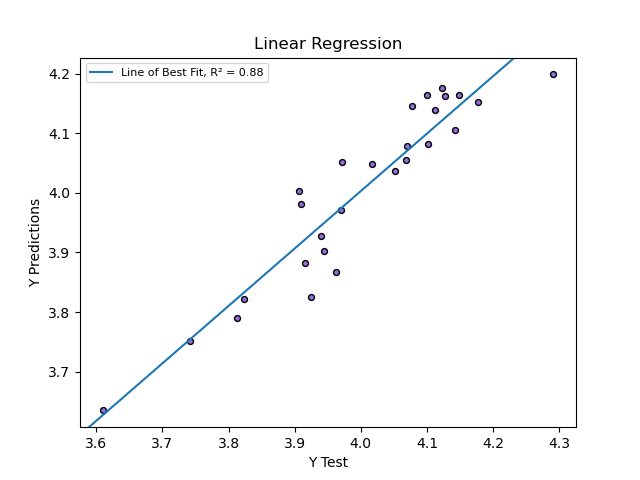
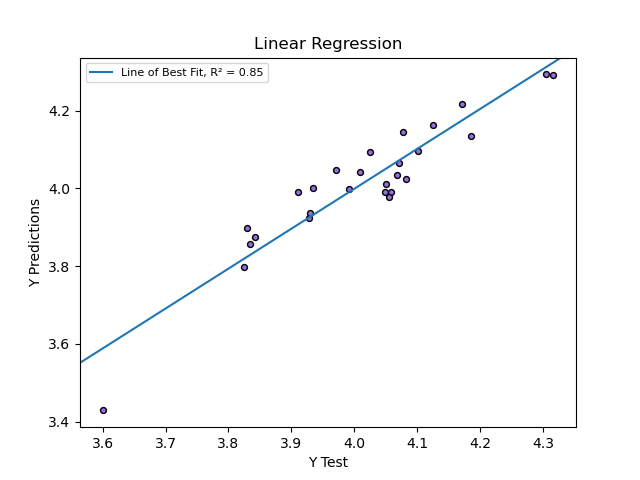
So many changes!

diff --git a/code/model.py b/code/model.py
@@ -9,15 +9,26 @@ from text_format import TextFormat
 from abc import ABCMeta, abstractmethod
 from sklearn.feature_selection import RFE
 from sklearn.metrics import mean_squared_error, r2_score
-from sklearn.model_selection import KFold, cross_val_score, GridSearchCV, RepeatedKFold
+from sklearn.model_selection import KFold, cross_val_score, GridSearchCV
 from sklearn.linear_model import LinearRegression, Lasso, LassoCV, ElasticNet, ElasticNetCV
 
 class RegressionModel():
+    # Initialize a class variable for the random state hyper parameter.
+    seed = random.randrange(10000000)
+
     def __init__(self, x_train, y_train, x_test, y_test):
         self.x_train = x_train
-        self.y_train = y_train
+        self.y_train = self.flatten_vector(y_train)
         self.x_test = x_test
-        self.y_test = y_test
+        self.y_test = self.flatten_vector(y_test)
+
+    @abstractmethod 
+    def cross_validation(self):
+        pass
+
+    @abstractmethod
+    def evaluation(self):
+        pass
 
     def flatten_vector(self, data):
         # Ensure the data is of numpy array type.
@@ -25,16 +36,12 @@ class RegressionModel():
 
         # Flatten the vector
         data = data.flatten()
-
+        
         return data
 
     def get_slope_intercept(self, predictions):
         # Degree of the fitting polynomial.
         deg = 1
-
-        # Converting following matrix into 1D numpy array.
-        self.y_test = self.flatten_vector(self.y_test)
-        predictions = self.flatten_vector(predictions)
 
         # Parameters from the fit of the polynomial.
         p = np.polyfit(self.y_test, predictions, deg)
@@ -57,6 +64,36 @@ class RegressionModel():
         
         # Display the model prediction performance. 
         self.display(predictions, r2, model_name)
+
+    def get_error_percentage(self, data, predictions):
+        data = list(data)
+        predictions = list(predictions)
+        error = 0
+
+        for i in range(len(data)):
+            error += (abs(predictions[i] - data[i]) / data[i])
+
+        error_percentage = ((error / len(data)) * 100).round(2)
+        return error_percentage
+        
+    def make_comparisons(self, predictions):
+        compare = pd.DataFrame({'Test Data': self.y_test, 'Prediction': predictions})
+        print("\nTest Data vs Predicted Values:")
+        print(tabulate(compare.head(5), headers="keys", showindex=False, tablefmt="psql"))
+
+    def make_accurate_comparisons(self, predictions):
+        # Transform the data back to its original state.
+        actual_y_test = np.exp(self.y_test)
+        actual_predictions = np.exp(predictions)
+
+        # Calculate the difference between the Test Data and the Predictions.
+        diff = abs(actual_y_test - actual_predictions)
+
+        # Display the results in table form.
+        actual_compare = pd.DataFrame({'Test Data': actual_y_test, 'Prediction': actual_predictions, 'Difference': diff})
+        actual_compare = actual_compare.astype(float).round(2)
+        print("\nTest Data vs Predicted Values (reverted):")
+        print(tabulate(actual_compare.head(5), headers="keys", showindex=False, tablefmt="psql"))
 
     def display(self, predictions, r2, model_name):
         # Receive the parameters from the fit of the polynomial.
@@ -82,57 +119,33 @@ class RegressionModel():
         plt.savefig(f'{model_name.lower()}plot.png')
         plt.show()
 
-    def make_comparisons(self, predictions):
-        compare = pd.DataFrame({'Prediction': predictions, 'Test Data': self.y_test})
-        print("\nComparisons between the raw predicted values & corresponding test data:")
-        print(tabulate(compare.head(10), headers="keys", showindex=False, tablefmt="psql"))
-
-    def make_accurate_comparisons(self, predictions):
-        # Transform the data back to its original state.
-        actual_y_test = np.exp(self.y_test)
-        actual_predictions = np.exp(predictions)
-
-        # Calculate the difference between the Test Data and the Predictions.
-        diff = abs(actual_y_test - actual_predictions)
-
-        # Display the results in table form.
-        actual_compare = pd.DataFrame({'Test Data': actual_y_test, 'Prediction': actual_predictions, 'Difference': diff})
-        actual_compare = actual_compare.astype(float).round(2)
-        print("\nComparisons of the actual values (before transformations):")
-        print(tabulate(actual_compare.head(10), headers="keys", showindex=False, tablefmt="psql"))
-
-    @abstractmethod 
-    def cross_validation(self):
-        pass
-
-    @abstractmethod
-    def evaluation(self):
-        pass
-
 class LinearRegressionModel(RegressionModel):
     def __init__(self, x_train, y_train, x_test, y_test):
         super().__init__(x_train, y_train, x_test, y_test)
         # Create the Linear Regression Model.
         self.model = self.cross_validation()
-        #self.model = LinearRegression().fit(self.x_train, self.y_train)
 
-        # Receive the predictions of x_test from the model.
-        self.predictions = super().flatten_vector(self.model.predict(x_test))
+        # Receive the predictions from the model.
+        self.test_predictions = self.model.predict(self.x_test)
+        self.train_predictions = self.model.predict(self.x_train)
 
         # Declare the r2 score and slope-intercept variables.
-        self.r2 = r2_score(self.y_test, self.predictions)
-        self.p = super().get_slope_intercept(self.predictions)[0]
+        self.r2 = r2_score(self.y_test, self.test_predictions)
+        self.p = super().get_slope_intercept(self.test_predictions)[0]
+
+        self.test_error = super().get_error_percentage(self.y_test, self.test_predictions)
+        self.train_error = super().get_error_percentage(self.y_train, self.train_predictions)
 
     def evaluation(self):
         # Receive the performance results of the Linear Regression Model.
-        super().get_performance_results('Linear', self.predictions, self.r2)
+        super().get_performance_results('Linear', self.test_predictions, self.r2)
         # Display comparisons between the predicted y_test values and the actual y_test values.
-        super().make_comparisons(self.predictions)
-        super().make_accurate_comparisons(self.predictions)
+        super().make_comparisons(self.test_predictions)
+        super().make_accurate_comparisons(self.test_predictions)
 
     def cross_validation(self):
         # Creating a KFold object with 5 splits.
-        folds = KFold(n_splits = 5, shuffle = True)
+        folds = KFold(n_splits = 5, shuffle = True, random_state=RegressionModel.seed)
 
         # Specify range of hyperparameters.
         hyper_params = [{'n_features_to_select': list(range(2, 40))}]
@@ -148,16 +161,14 @@ class LinearRegressionModel(RegressionModel):
         # Fit the model
         linear_cv.fit(self.x_train, self.y_train)
 
+        # Return the best Linear Regression Model.
         return linear_cv
 
 class LassoRegressionModel(RegressionModel):
     def __init__(self, x_train, y_train, x_test, y_test):
         super().__init__(x_train, y_train, x_test, y_test)
-        # Declare and set the best alpha for the Lasso Regression Model.
-        self.alpha = self.cross_validation()
-
         # Create the Lasso Regression Model.
-        self.model = Lasso(alpha = self.alpha).fit(self.x_train, self.y_train)
+        self.model = self.cross_validation()
 
         # Receive the predictions, r2 score, and slope-intercept from the model.
         self.predictions = self.model.predict(self.x_test)
@@ -172,22 +183,20 @@ class LassoRegressionModel(RegressionModel):
         super().make_accurate_comparisons(self.predictions)
 
     def cross_validation(self):
-        lasso_cv = LassoCV(cv=5, max_iter=10000, random_state=62)
-        # Fit model
-        lasso_cv.fit(self.x_train, super().flatten_vector(self.y_train)) 
+        # Define the model.
+        lasso_cv = LassoCV(cv=5, max_iter=10000, random_state=RegressionModel.seed)
 
-        # Return the Best Alpha score.
-        return lasso_cv.alpha_
+        # Fit the model.
+        lasso_cv.fit(self.x_train, self.y_train)
+
+        # Return the best Lasso Regresison Model.
+        return lasso_cv
 
 class ElasticRegressionModel(RegressionModel):
     def __init__(self, x_train, y_train, x_test, y_test):
         super().__init__(x_train, y_train, x_test, y_test)
-        # Initialize the chosen configurations from cross validation.
-        self.alpha = self.cross_validation()[0]
-        self.ratio = self.cross_validation()[1]
-
         # Create the Elastic Net Regression Model.
-        self.model = ElasticNet(alpha=self.alpha, l1_ratio=self.ratio).fit(self.x_train, self.y_train)
+        self.model = self.cross_validation()
 
         # Receive the predictions, r2 score, and slope-intercept from the model.
         self.predictions = self.model.predict(self.x_test)
@@ -196,31 +205,17 @@ class ElasticRegressionModel(RegressionModel):
 
     def evaluation(self):
         # Receive the performance results of the Lasso Regression Model.
-        super().get_performance_results('Elastic Net', self.predictions, self.r2)
+        super().get_performance_results('Elastic', self.predictions, self.r2)
         # Display comparisons between the predicted y_test values and the actual y_test values.
         super().make_comparisons(self.predictions)
         super().make_accurate_comparisons(self.predictions)
 
     def cross_validation(self):
-        # Initialize a random seed for the random state hyper parameter.
-        seed = random.randrange(100000)
-        # Define model evaluation method.
-        #cv = RepeatedKFold(n_splits=5, n_repeats=10000 ,random_state=62)
-
         # Define model.
-        ratios = np.arange(0, 1, 0.01)
-        alphas = [.05, .15, .5, .7, .9, .95, .99, 1]
-        #elastic_cv = ElasticNetCV(l1_ratio=ratios, alphas=alphas, cv=10, n_jobs=8)
-        elastic_cv = ElasticNetCV(cv=10)
+        elastic_cv = ElasticNetCV(cv=5, max_iter=10000, random_state=RegressionModel.seed)
 
-        # Fit model.
-        elastic_cv.fit(self.x_train, super().flatten_vector(self.y_train))
+        # Fit the model.
+        elastic_cv.fit(self.x_train, self.y_train)
 
-        # Return the chosen configurations.
-        return elastic_cv.alpha_, elastic_cv.l1_ratio
-
-
-
-
-
-
+        # Return the best Elastic Model.
+        return elastic_cv

diff --git a/code/main.py b/code/main.py
@@ -14,22 +14,29 @@ from sklearn.metrics import mean_squared_error, r2_score
 from sklearn.feature_selection import VarianceThreshold
 import random
 
-def model_diff_plot(self, linear, lasso, y_test, p1, p2):
-    plt.scatter(x=y_test, y=linear.predictions, c='navy', marker='o', edgecolors='k', s=18, alpha=0.7)
-    plt.scatter(x=y_test, y=lasso.predictions, c='mediumvioletred', marker='o', edgecolors='k', s=18, alpha=0.7)
-    xlim = plt.xlim()
-    ylim = plt.ylim()
+def display_corr(df):
+    # Plot a "pretty" version of the correlation matrix 
+    # Based on: https://seaborn.pydata.org/examples/many_pairwise_correlations.html
+    # Given that the correlation table is symmetrical, we remove one side 
 
-    # Line of best fit
-    plt.plot(np.array(xlim), p1[1] + p1[0] * np.array(xlim), c='navy', alpha=0.7, linewidth=1.5)
-    # Line of best fit
-    plt.plot(np.array(xlim), p2[1] + p2[0] * np.array(xlim), c='mediumvioletred', alpha=0.7, linewidth=1.5)
+    # Declare correlation matrix
+    corr_matrix = df.corr()
 
+    # Generate a mask for the upper triangle
+    mask = np.zeros_like(corr_matrix, dtype=np.bool)
+    mask[np.triu_indices_from(mask)] = True
 
-    classes = ['Linear Model Predictions', 'Lasso Model Predictions']
-    plt.legend(labels=classes, fontsize=8)
-    plt.xlim(xlim)
-    plt.ylim(ylim)
+    # Set up the matplotlib figure
+    f, ax = plt.subplots(figsize=(10, 8))
+
+    # Generate a custom diverging colormap
+    cmap = sns.diverging_palette(220, 10, as_cmap=True)
+
+    # Draw the heatmap with the mask and correct aspect ratio
+    sns.heatmap(corr_matrix, mask=mask, cmap=cmap, vmax=1, center=0, 
+        square=True, linewidths=.5, cbar_kws={"shrink": .5}, annot=True)
+
+    plt.savefig("heatmap.png", dpi=300, bbox_inches='tight')
     plt.show()
 
 def main():
@@ -42,11 +49,10 @@ def main():
     data.clean()
 
     # Display the all correlations between features.
-    data.display_corr()
+    #display_corr(data.df)
 
     # Identify the most relevant features towards y.
     relevant_feats = data.identify_relevant_feats()
-    #print(f'Most relevant columns: {relevant_feats}')
     
     # Normalize the features that have above 0.8 correlation to y.
     column_corr = data.feats_to_normalize()
@@ -58,9 +64,8 @@ def main():
     x = df[[col for col in relevant_feats if col != 'y']]
     y = df.loc[:, df.columns == 'y']
 
-    seed = random.randrange(100000)
-
-    # Great Random States: [1, 38, 43, 57, 80, 98, 104, 173, 184, 242]
+    # Initialize a random integer for the random state hyper parameter.
+    seed = random.randrange(10000000)
     # Divide the data set into training data and testing data.
     x_train, x_test, y_train, y_test = train_test_split(x, y, test_size=0.20, random_state=seed)
 
@@ -72,14 +77,17 @@ def main():
     # Apply and visualize Linear Regression Performance.
     linear = LinearRegressionModel(x_train, y_train, x_test, y_test)
     linear.evaluation()
+    
+    print(f'Train Error Percentage: {linear.train_error}%')
+    print(f'Test Error Percentage: {linear.test_error}%')
 
     # Apply and visualize Lasso Regression Performance.
-    lasso = LassoRegressionModel(x_train, y_train, x_test, y_test)
-    lasso.evaluation()
+    #lasso = LassoRegressionModel(x_train, y_train, x_test, y_test)
+    #lasso.evaluation()
 
     # Apply and visualize Elastic Net Regression Performance.
-    elastic = ElasticRegressionModel(x_train, y_train, x_test, y_test)
-    elastic.evaluation()
+    #elastic = ElasticRegressionModel(x_train, y_train, x_test, y_test)
+    #elastic.evaluation()
 
 if __name__ == '__main__':
     try:

diff --git a/code/preprocessing.py b/code/preprocessing.py
@@ -111,31 +111,6 @@ class Preprocessing():
 
         return column_corr
 
-    def display_corr(self):
-        # Plot a "pretty" version of the correlation matrix 
-        # Based on: https://seaborn.pydata.org/examples/many_pairwise_correlations.html
-        # Given that the correlation table is symmetrical, we remove one side 
-
-        # Declare correlation matrix
-        corr_matrix = self.df.corr()
-
-        # Generate a mask for the upper triangle
-        mask = np.zeros_like(corr_matrix, dtype=np.bool)
-        mask[np.triu_indices_from(mask)] = True
-
-        # Set up the matplotlib figure
-        f, ax = plt.subplots(figsize=(10, 8))
-
-        # Generate a custom diverging colormap
-        cmap = sns.diverging_palette(220, 10, as_cmap=True)
-
-        # Draw the heatmap with the mask and correct aspect ratio
-        sns.heatmap(corr_matrix, mask=mask, cmap=cmap, vmax=1, center=0, 
-            square=True, linewidths=.5, cbar_kws={"shrink": .5}, annot=True)
-
-        plt.savefig("heatmap.png", dpi=300, bbox_inches='tight')
-        plt.show()
-
     def clean(self):
         # Account for missing values within the dataframe.
         self.handle_missing_values()
